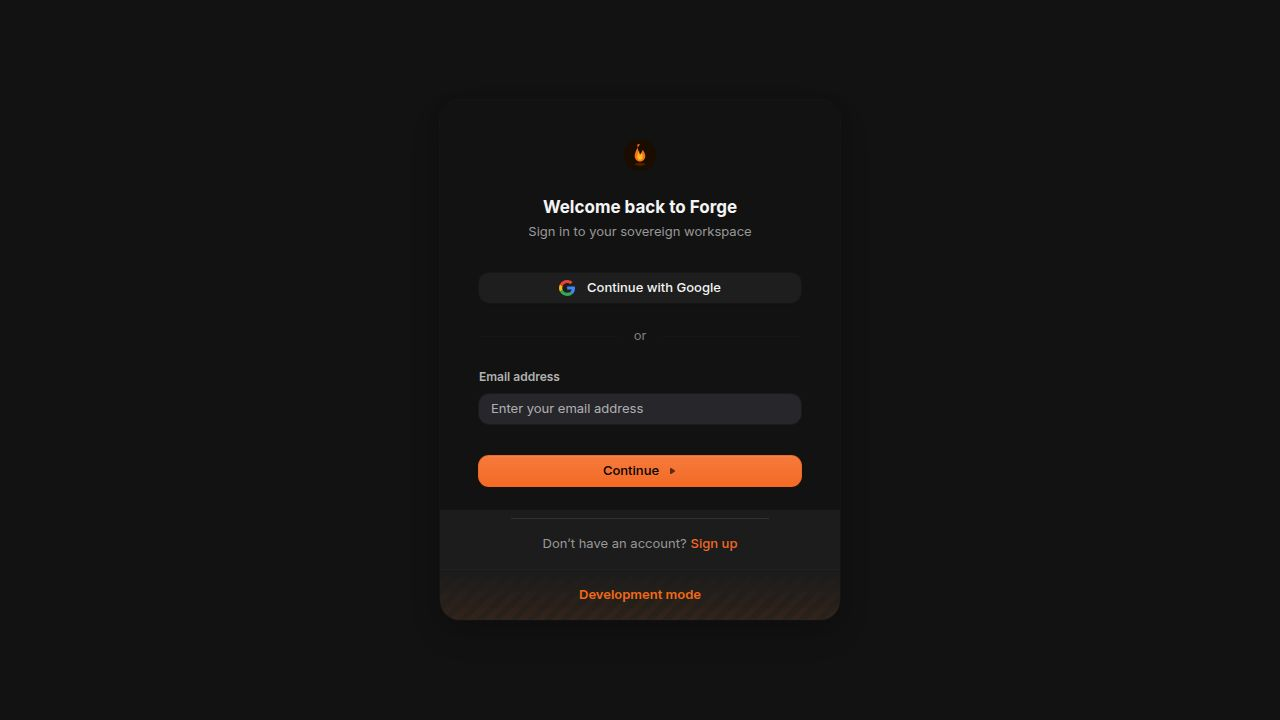
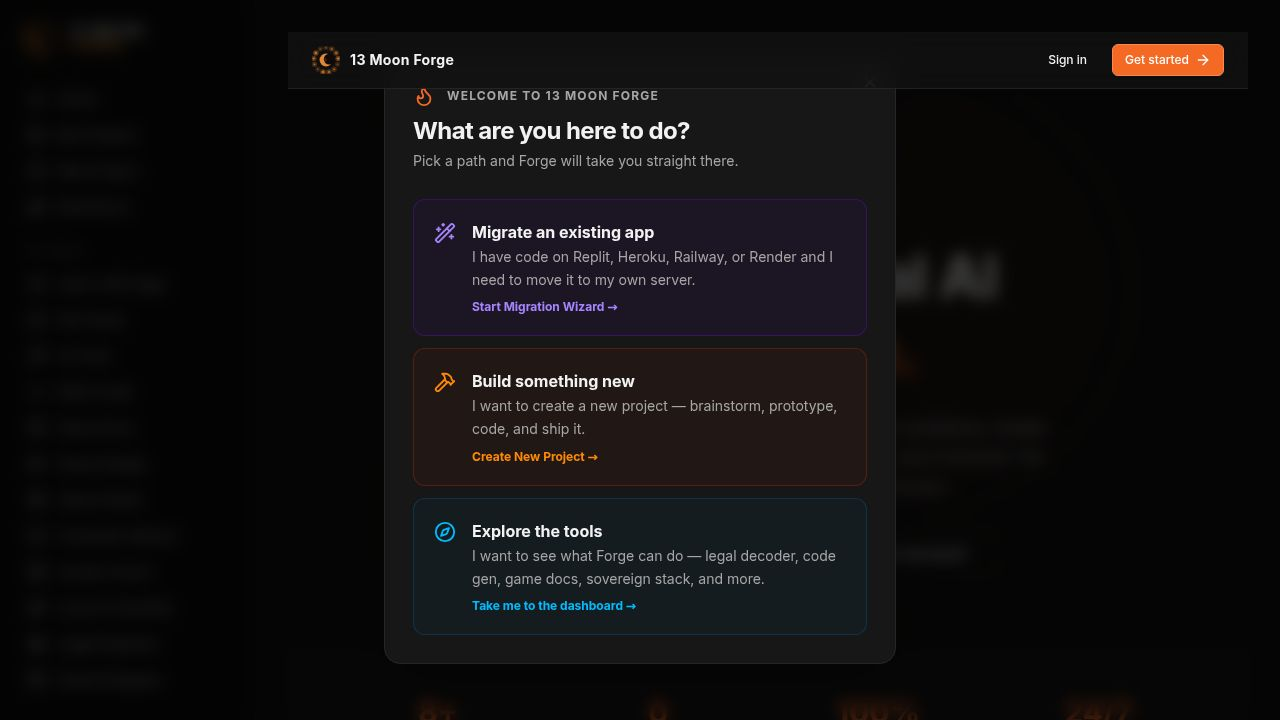
Update navigation and routing to direct users to the dashboard
Refactors the application's routing logic, updating navigation links to point to "/dashboard" instead of "/" and isolating the landing page to render outside the main layout.

Replit-Commit-Author: Agent
Replit-Commit-Session-Id: cb496eb3-b730-44a3-8812-dbd408260926
Replit-Commit-Checkpoint-Type: full_checkpoint
Replit-Commit-Event-Id: 63f2208e-f82d-47b6-b668-f631f382c30e
Replit-Commit-Screenshot-Url: https://storage.googleapis.com/screenshot-production-us-central1/ae502d99-2e22-4428-9695-6a23076322d0/cb496eb3-b730-44a3-8812-dbd408260926/7lbQhl5
Replit-Helium-Checkpoint-Created: true

diff --git a/artifacts/the-forge/src/pages/landing.tsx b/artifacts/the-forge/src/pages/landing.tsx
@@ -1,0 +1,273 @@
+import { useEffect } from "react";
+import { useLocation } from "wouter";
+import { useAuth } from "@clerk/react";
+import { LogoMark } from "@/components/logo";
+import { Button } from "@/components/ui/button";
+import {
+  MonitorPlay, Monitor, Swords, Sparkles, Code2, GraduationCap,
+  Crosshair, Shield, ArrowRight, Flame,
+} from "lucide-react";
+
+const basePath = import.meta.env.BASE_URL.replace(/\/$/, "");
+
+const features = [
+  {
+    icon: MonitorPlay,
+    color: "text-orange-400",
+    bg: "bg-orange-400/10",
+    title: "Screen Coach",
+    desc: "Share your screen and let Forge watch, listen, and talk you through any computer problem — step by step, out loud.",
+  },
+  {
+    icon: Monitor,
+    color: "text-blue-400",
+    bg: "bg-blue-400/10",
+    title: "Computer Advisor",
+    desc: "Tell Forge what your computer is like and what you want to do. It tells you exactly what software to get and what to upgrade — for free.",
+  },
+  {
+    icon: Swords,
+    color: "text-purple-400",
+    bg: "bg-purple-400/10",
+    title: "Game Studio",
+    desc: "Build a real video game right in your browser. No downloads. No experience needed. Forge writes the code, you make the game.",
+  },
+  {
+    icon: GraduationCap,
+    color: "text-green-400",
+    bg: "bg-green-400/10",
+    title: "Learn with Sage",
+    desc: "Ask anything and get a clear, patient explanation. Like having a teacher available 24 hours a day who never makes you feel dumb.",
+  },
+  {
+    icon: Crosshair,
+    color: "text-yellow-400",
+    bg: "bg-yellow-400/10",
+    title: "Ask Hawk",
+    desc: "Stuck on something? Hawk cuts through the noise and gives you a direct answer — no fluff, no runaround.",
+  },
+  {
+    icon: Code2,
+    color: "text-pink-400",
+    bg: "bg-pink-400/10",
+    title: "Write Code",
+    desc: "Need an app, a script, or a website? Describe what you want and Forge writes it. You don't need to know how to code.",
+  },
+  {
+    icon: Sparkles,
+    color: "text-cyan-400",
+    bg: "bg-cyan-400/10",
+    title: "Brainstorm",
+    desc: "Turn a rough idea into a full plan. Forge asks the right questions and helps you figure out exactly what you're building.",
+  },
+  {
+    icon: Shield,
+    color: "text-emerald-400",
+    bg: "bg-emerald-400/10",
+    title: "Sovereign Tools",
+    desc: "Move your data, apps, and digital life off of Big Tech. Forge shows you how and walks you through every step.",
+  },
+];
+
+const stats = [
+  { value: "8+", label: "AI-powered tools" },
+  { value: "0", label: "downloads required" },
+  { value: "100%", label: "browser-based" },
+  { value: "24/7", label: "always available" },
+];
+
+export default function Landing() {
+  const { isSignedIn, isLoaded } = useAuth();
+  const [, setLocation] = useLocation();
+
+  useEffect(() => {
+    if (isLoaded && isSignedIn) {
+      setLocation("/dashboard");
+    }
+  }, [isLoaded, isSignedIn, setLocation]);
+
+  if (!isLoaded || isSignedIn) return null;
+
+  return (
+    <div className="min-h-screen bg-background text-foreground overflow-x-hidden">
+
+      {/* ── Nav ─────────────────────────────────────────────────────────────── */}
+      <nav className="sticky top-0 z-50 border-b border-white/8 bg-background/80 backdrop-blur-md">
+        <div className="max-w-6xl mx-auto px-6 h-14 flex items-center justify-between">
+          <div className="flex items-center gap-2.5">
+            <LogoMark className="h-7 w-7" />
+            <span className="font-bold text-sm tracking-wide">13 Moon Forge</span>
+          </div>
+          <div className="flex items-center gap-3">
+            <Button variant="ghost" size="sm" asChild>
+              <a href={`${basePath}/sign-in`}>Sign in</a>
+            </Button>
+            <Button size="sm" className="gap-1.5" asChild>
+              <a href={`${basePath}/sign-up`}>
+                Get started <ArrowRight size={13} />
+              </a>
+            </Button>
+          </div>
+        </div>
+      </nav>
+
+      {/* ── Hero ────────────────────────────────────────────────────────────── */}
+      <section className="relative pt-24 pb-20 px-6 text-center overflow-hidden">
+        <div className="absolute inset-0 pointer-events-none">
+          <div className="absolute top-0 left-1/2 -translate-x-1/2 w-[700px] h-[400px] bg-primary/10 rounded-full blur-[120px] opacity-60" />
+        </div>
+        <div className="relative max-w-3xl mx-auto space-y-6">
+          <div className="inline-flex items-center gap-2 px-3 py-1.5 rounded-full border border-primary/30 bg-primary/10 text-primary text-xs font-semibold tracking-wide">
+            <Flame size={12} /> Powered by Sovereign Digital LLC
+          </div>
+          <h1 className="text-4xl sm:text-5xl md:text-6xl font-extrabold leading-tight tracking-tight">
+            Your personal AI<br />
+            <span className="text-primary">tech team.</span>
+          </h1>
+          <p className="text-lg text-muted-foreground max-w-xl mx-auto leading-relaxed">
+            Forge watches your screen, fixes your computer problems, builds your apps, and teaches you anything — right in your browser. No Geek Squad. No downloads. No confusion.
+          </p>
+          <div className="flex flex-col sm:flex-row gap-3 justify-center pt-2">
+            <Button size="lg" className="gap-2 text-base px-8" asChild>
+              <a href={`${basePath}/sign-up`}>
+                Start for free <ArrowRight size={16} />
+              </a>
+            </Button>
+            <Button size="lg" variant="outline" className="gap-2 text-base px-8" asChild>
+              <a href={`${basePath}/sign-in`}>
+                I already have an account
+              </a>
+            </Button>
+          </div>
+        </div>
+      </section>
+
+      {/* ── Stats ───────────────────────────────────────────────────────────── */}
+      <section className="py-10 border-y border-white/8 bg-white/2">
+        <div className="max-w-4xl mx-auto px-6 grid grid-cols-2 md:grid-cols-4 gap-8 text-center">
+          {stats.map(s => (
+            <div key={s.label}>
+              <div className="text-3xl font-extrabold text-primary">{s.value}</div>
+              <div className="text-xs text-muted-foreground mt-1">{s.label}</div>
+            </div>
+          ))}
+        </div>
+      </section>
+
+      {/* ── Features ────────────────────────────────────────────────────────── */}
+      <section className="py-20 px-6">
+        <div className="max-w-6xl mx-auto space-y-12">
+          <div className="text-center space-y-3">
+            <h2 className="text-3xl font-bold tracking-tight">Everything you need, nothing you don't</h2>
+            <p className="text-muted-foreground max-w-lg mx-auto">Eight tools, one workspace. Pick what you need and ignore the rest.</p>
+          </div>
+          <div className="grid grid-cols-1 sm:grid-cols-2 lg:grid-cols-4 gap-4">
+            {features.map(f => (
+              <div key={f.title} className="rounded-xl border border-white/8 bg-white/3 p-5 space-y-3 hover:border-white/15 hover:bg-white/5 transition-colors">
+                <div className={`inline-flex items-center justify-center w-9 h-9 rounded-lg ${f.bg}`}>
+                  <f.icon size={18} className={f.color} />
+                </div>
+                <div>
+                  <p className="font-semibold text-sm">{f.title}</p>
+                  <p className="text-xs text-muted-foreground leading-relaxed mt-1">{f.desc}</p>
+                </div>
+              </div>
+            ))}
+          </div>
+        </div>
+      </section>
+
+      {/* ── Highlight: Screen Coach ──────────────────────────────────────────── */}
+      <section className="py-20 px-6 border-y border-white/8 bg-white/2">
+        <div className="max-w-5xl mx-auto grid grid-cols-1 md:grid-cols-2 gap-12 items-center">
+          <div className="space-y-5">
+            <div className="inline-flex items-center gap-2 px-3 py-1 rounded-full border border-orange-400/30 bg-orange-400/10 text-orange-400 text-xs font-semibold">
+              <MonitorPlay size={12} /> Featured Tool
+            </div>
+            <h2 className="text-3xl font-bold tracking-tight">Your own Geek Squad — free.</h2>
+            <p className="text-muted-foreground leading-relaxed">
+              Screen Coach watches your screen in real time. It sees what you see, talks you through the fix out loud, and even points to exactly where to click. It's like having a tech-savvy friend looking over your shoulder — without the awkward house visit.
+            </p>
+            <ul className="space-y-2">
+              {[
+                "Speaks guidance out loud as you work",
+                "Shows a glowing pointer on your screen",
+                "Detects when something changes and reacts",
+                "Quick-fix recipes for the most common problems",
+              ].map(item => (
+                <li key={item} className="flex items-start gap-2 text-sm text-muted-foreground">
+                  <span className="text-primary mt-0.5">✓</span> {item}
+                </li>
+              ))}
+            </ul>
+            <Button className="gap-2 mt-2" asChild>
+              <a href={`${basePath}/sign-up`}>Try Screen Coach free <ArrowRight size={14} /></a>
+            </Button>
+          </div>
+          <div className="rounded-2xl border border-white/10 bg-white/5 p-6 space-y-3">
+            <div className="flex items-center gap-2 text-xs text-muted-foreground">
+              <div className="w-2 h-2 rounded-full bg-green-400 animate-pulse" />
+              Forge is watching your screen…
+            </div>
+            {[
+              { role: "user", text: "My computer is running really slow" },
+              { role: "forge", text: "I can see several browser tabs open and a software update waiting. Let's start by closing the tabs you're not using — look at the top of your screen, the row of open pages. Click the X on any tab you don't need right now." },
+            ].map((m, i) => (
+              <div key={i} className={`rounded-lg px-4 py-3 text-xs leading-relaxed ${m.role === "user" ? "bg-white/8 text-foreground ml-6" : "bg-primary/15 text-foreground mr-6 border border-primary/20"}`}>
+                <span className={`font-semibold text-[10px] uppercase tracking-wider block mb-1 ${m.role === "forge" ? "text-primary" : "text-muted-foreground"}`}>
+                  {m.role === "forge" ? "Forge" : "You"}
+                </span>
+                {m.text}
+              </div>
+            ))}
+            <div className="flex items-center gap-1.5 pt-1">
+              <div className="w-1.5 h-1.5 rounded-full bg-primary animate-bounce" style={{ animationDelay: "0ms" }} />
+              <div className="w-1.5 h-1.5 rounded-full bg-primary animate-bounce" style={{ animationDelay: "150ms" }} />
+              <div className="w-1.5 h-1.5 rounded-full bg-primary animate-bounce" style={{ animationDelay: "300ms" }} />
+              <span className="text-[10px] text-muted-foreground ml-1">Forge is thinking…</span>
+            </div>
+          </div>
+        </div>
+      </section>
+
+      {/* ── CTA ─────────────────────────────────────────────────────────────── */}
+      <section className="py-24 px-6 text-center relative overflow-hidden">
+        <div className="absolute inset-0 pointer-events-none">
+          <div className="absolute bottom-0 left-1/2 -translate-x-1/2 w-[600px] h-[300px] bg-primary/10 rounded-full blur-[100px] opacity-50" />
+        </div>
+        <div className="relative max-w-2xl mx-auto space-y-6">
+          <LogoMark className="h-12 w-12 mx-auto opacity-80" />
+          <h2 className="text-3xl sm:text-4xl font-extrabold tracking-tight">
+            Ready to build something?
+          </h2>
+          <p className="text-muted-foreground text-lg">
+            Join 13 Moon Forge and get your personal AI workspace — free to start, no credit card required.
+          </p>
+          <Button size="lg" className="gap-2 text-base px-10" asChild>
+            <a href={`${basePath}/sign-up`}>
+              Create your free account <ArrowRight size={16} />
+            </a>
+          </Button>
+        </div>
+      </section>
+
+      {/* ── Footer ──────────────────────────────────────────────────────────── */}
+      <footer className="border-t border-white/8 py-8 px-6">
+        <div className="max-w-6xl mx-auto flex flex-col sm:flex-row items-center justify-between gap-4 text-xs text-muted-foreground">
+          <div className="flex items-center gap-2">
+            <LogoMark className="h-5 w-5 opacity-50" />
+            <span>© {new Date().getFullYear()} Sovereign Digital LLC. All rights reserved.</span>
+          </div>
+          <div className="flex items-center gap-5">
+            <a href="https://thepeoplestownsq.com" target="_blank" rel="noopener noreferrer" className="hover:text-foreground transition-colors">
+              thepeoplestownsq.com
+            </a>
+            <a href={`${basePath}/pricing`} className="hover:text-foreground transition-colors">Pricing</a>
+            <a href={`${basePath}/sign-in`} className="hover:text-foreground transition-colors">Sign in</a>
+          </div>
+        </div>
+      </footer>
+
+    </div>
+  );
+}

diff --git a/artifacts/the-forge/src/components/layout.tsx b/artifacts/the-forge/src/components/layout.tsx
@@ -45,7 +45,7 @@ export function Layout({ children }: { children: React.ReactNode }) {
   // ── Navigation items ──────────────────────────────────────────────────────
 
   const builderItems: NavItem[] = [
-    { href: "/",             label: "Home",             icon: Flame,        tip: "Your dashboard — projects, stats, quick actions" },
+    { href: "/dashboard",    label: "Home",             icon: Flame,        tip: "Your dashboard — projects, stats, quick actions" },
     { href: "/projects",     label: "My Projects",      icon: FolderKanban, tip: "View and manage all your projects"              },
     { href: "/projects/new", label: "New Project",      icon: PlusCircle,   tip: "Start a brand-new project from scratch"         },
     { href: "/brainstorm",   label: "Brainstorm",        icon: Sparkles,     tip: "AI helps you flesh out and plan your idea"      },
@@ -80,7 +80,7 @@ export function Layout({ children }: { children: React.ReactNode }) {
   ];
 
   const isActive = (href: string) =>
-    location === href || (href !== "/" && location.startsWith(href));
+    location === href || (href !== "/" && href !== "/dashboard" && location.startsWith(href)) || (href === "/dashboard" && location === "/dashboard");
 
   const NavLink = ({ href, label, icon: Icon, tip, onClick }: NavItem & { onClick?: () => void }) => (
     <Link
@@ -135,7 +135,7 @@ export function Layout({ children }: { children: React.ReactNode }) {
   const SidebarContent = ({ onClose }: { onClose?: () => void }) => (
     <>
       <div className="p-5 pb-4">
-        <Link href="/" onClick={onClose}>
+        <Link href="/dashboard" onClick={onClose}>
           <LogoWordmark size={38} />
         </Link>
       </div>
@@ -221,7 +221,7 @@ export function Layout({ children }: { children: React.ReactNode }) {
 
       {/* Mobile header */}
       <div className="md:hidden fixed top-0 left-0 right-0 z-40 flex items-center justify-between px-4 py-3 bg-background/95 backdrop-blur border-b border-border">
-        <Link href="/">
+        <Link href="/dashboard">
           <LogoMark size={28} />
         </Link>
         <button

diff --git a/artifacts/the-forge/src/App.tsx b/artifacts/the-forge/src/App.tsx
@@ -39,6 +39,7 @@ import SecretsVault from "@/pages/secrets-vault";
 import AdminPanel from "@/pages/admin";
 import Connections from "@/pages/connections";
 import Monitor from "@/pages/monitor";
+import Landing from "@/pages/landing";
 import { ProtectedRoute } from "@/components/protected-route";
 
 const clerkPubKey = import.meta.env.VITE_CLERK_PUBLISHABLE_KEY;
@@ -157,6 +158,7 @@ function Router() {
     <Switch>
       <Route path="/sign-in/*?" component={SignInPage} />
       <Route path="/sign-up/*?" component={SignUpPage} />
+      <Route path="/" component={Landing} />
       <Route>
         <Layout>
           <Switch>
@@ -168,7 +170,7 @@ function Router() {
             <Route>
               <ProtectedRoute>
                 <Switch>
-                  <Route path="/" component={Dashboard} />
+                  <Route path="/dashboard" component={Dashboard} />
                   <Route path="/projects" component={Projects} />
                   <Route path="/projects/new" component={NewProject} />
                   <Route path="/projects/:id" component={ProjectDetail} />